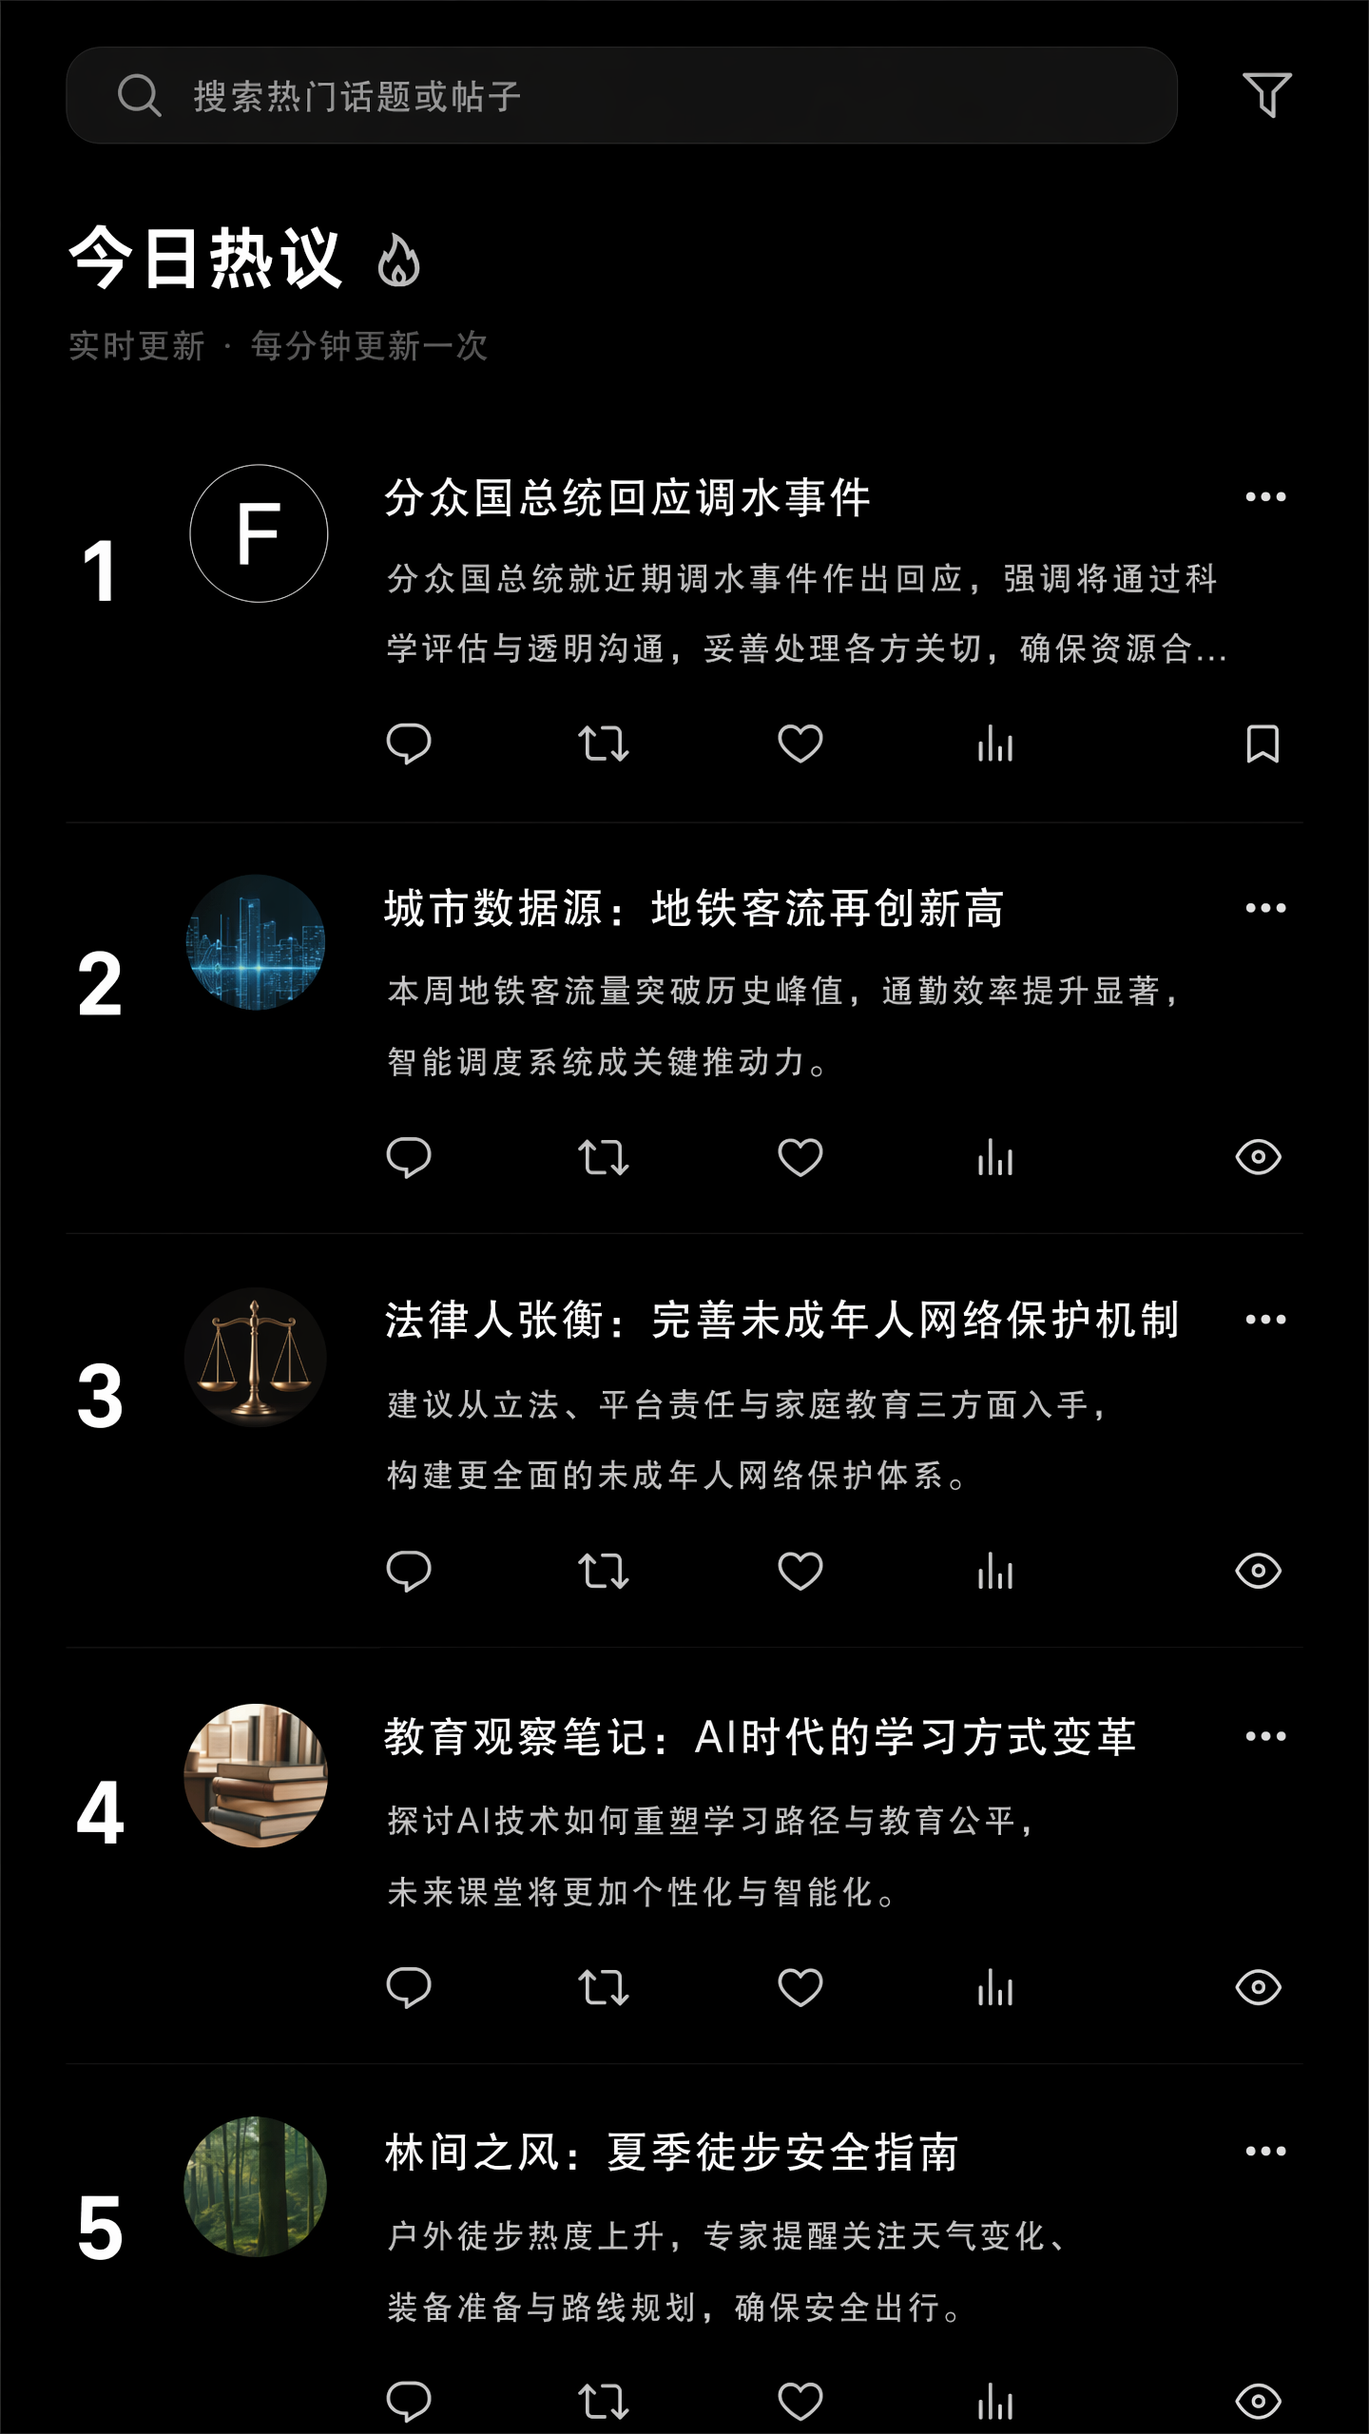
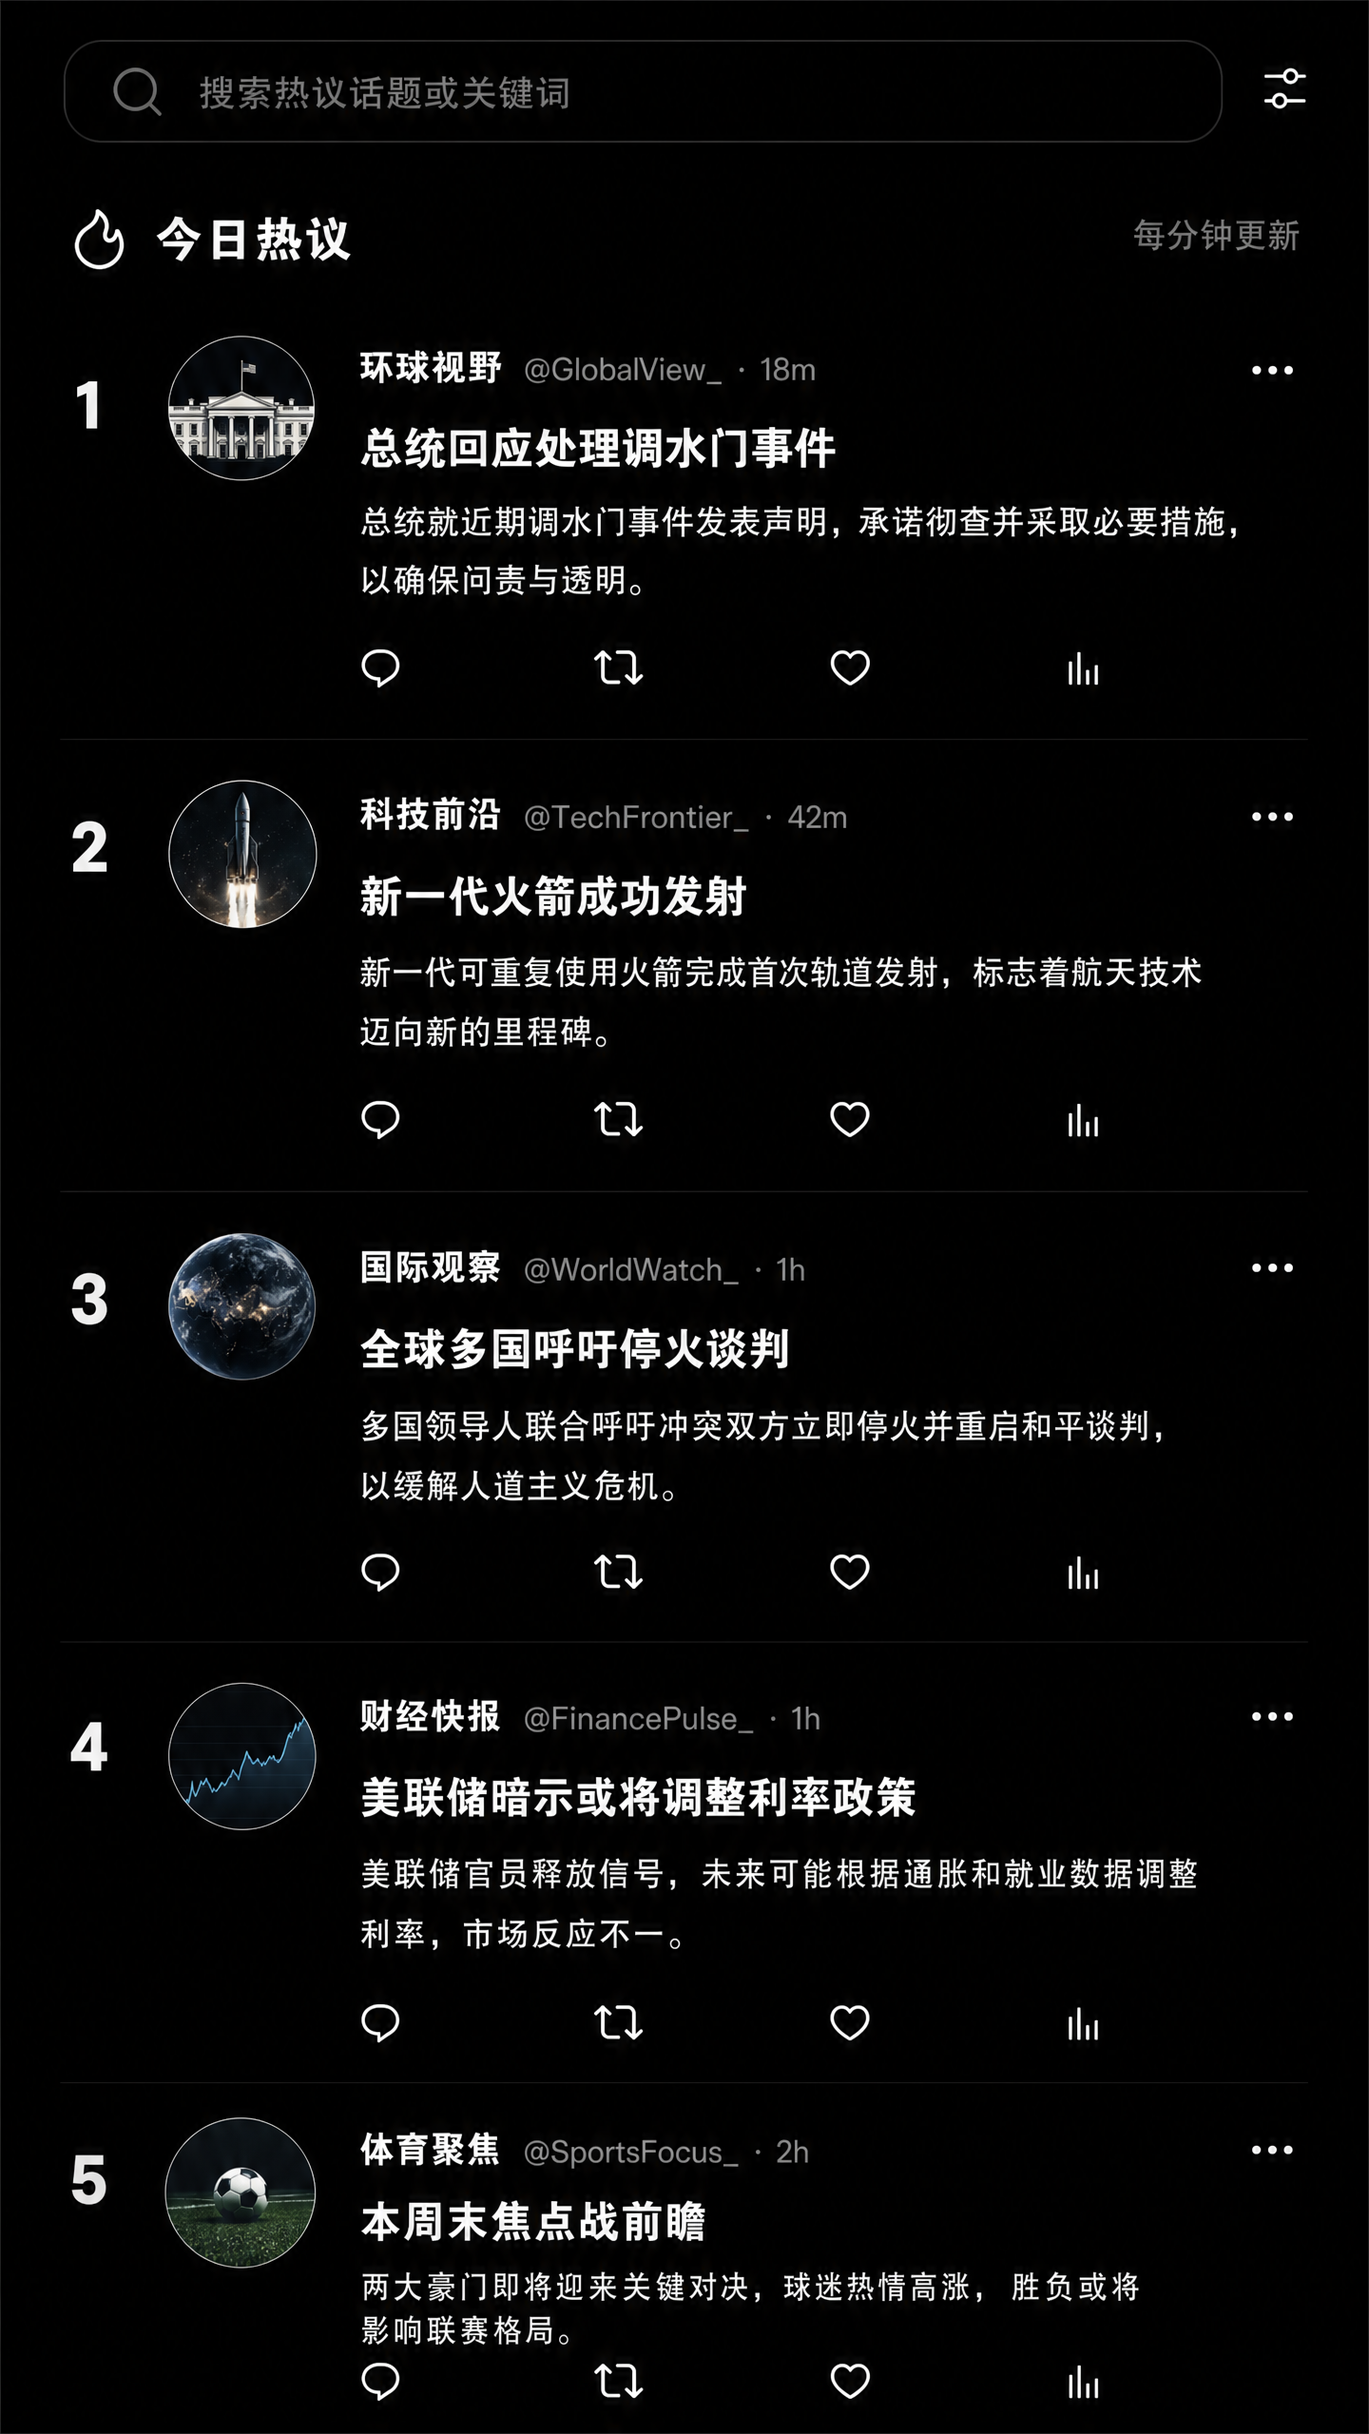
feat: polish port-strike demo copy and align F/hotsearch UI
Rewrite Felegram aide/union/Vance lines and tweets for demo tone, show scripted player bubbles, refresh F post/hotsearch bases with hitbox slots, and add chat bubble frame assets.

diff --git a/playground/main-loop/casePortStrike.ts b/playground/main-loop/casePortStrike.ts
@@ -216,7 +216,7 @@ export type FelegramReplyPart =
     };
 
 export type FelegramBeat = {
-  /** Scripted presidential line (reference for demo typing; bubble shows real input). */
+  /** Scripted presidential line shown in the player bubble (typed input is ignored). */
   player: string;
   /** Contact reply bubble(s) after a short delay. Arrays become separate bubbles. */
   reply: FelegramReplyPart | FelegramReplyPart[];
@@ -233,56 +233,55 @@ export type FelegramAideAct = {
   epilogue: string;
 };
 
-/** 幕僚第一幕：看完现场后的局势简报。 */
+/** 幕僚第一幕：看完现场后的局势简报（叮嘱腔 · 多「您」）。 */
 export const AIDE_BRIEFING_ACT: FelegramAideAct = {
   phase: 'briefing',
   advancesCase: true,
   outcome: '指引：先去找工会领袖谈补偿与法案',
   openingMessages: [
-    '总统，FTube 上的现场你看了吧。',
-    '旺斯为了游艇让水利署抬水位，港口工人直接罢工了。',
+    '总统，现场您看了吗？看了就好。先别发，听我说完。',
+    '旺斯把港口搞停了。热搜很难看。您这会儿要是冲出去，事情会更糟。',
   ],
   beats: [
     {
       player: '这蠢货又给我捅娄子。',
       reply: [
-        '不止捅娄子，热搜已经把副总统游艇和港口堵死绑在一起了。',
-        '工会那边在等你回话。工人要补偿，还要一项法案把权益写死。',
+        '是，又捅了。您骂他可以，现在骂解决不了。',
+        '工会等您回话。要补偿，要法案。您先回他们，好不好？',
       ],
     },
     {
       player: '旺斯回头再收拾。先说正事，我该怎么做。',
       reply: [
-        '先去 Felegram 找工会领袖谈。',
-        '谈妥了再处理舆论，最后再颁布补偿令。',
-        '我这边盯着国会那边的动静。',
+        '好。您听清楚：先谈工会，再压舆论，最后颁布补偿令。按这个来。',
+        '国会我盯着。您别临时自己加东西。',
       ],
     },
   ],
-  epilogue: '工会领袖在消息列表里，先把他谈下来。',
+  epilogue: '工会领袖在列表里。您去谈。谈完回来跟我说一声。别中途跑去骂旺斯。',
 };
 
-/** 幕僚第二幕：颁布后的调查案口径。 */
+/** 幕僚第二幕：颁布后的调查案口径（叮嘱腔 · 多「您」）。 */
 export const AIDE_INVESTIGATION_ACT: FelegramAideAct = {
   phase: 'investigation',
   advancesCase: false,
   outcome: '提示：签调查案时批注「给假数据」· 关手机后幕僚会呈上文件',
   openingMessages: [
-    '总统，等会儿我会呈上一份调水门调查案。',
-    '国会要求你签字。',
+    '总统，调查案快呈上来了。您别慌，按我说的签。',
+    '国会要您签字。他们要好看的，咱们就给好看的。',
   ],
   beats: [
     {
       player: '知道了。',
       reply: [
-        '你签字的时候，批注写「给假数据」就行。',
-        '公开调查是给国会看的，数据是给我们自己看的。',
-        '你懂的。',
-        '🙈🙈🙈',
+        '批注您写「给假数据」。四个字，别多写。',
+        '外面那套是给人看的。真的那些，您收好，别外传。',
+        '您懂的。',
+        '🙈',
       ],
     },
   ],
-  epilogue: '调查案呈上来你就签，批注别忘了。',
+  epilogue: '文件到了您就签。签完早点儿歇着。今晚谁来找您，就说我不让您出门。',
 };
 
 export type FelegramContactScript = {
@@ -396,26 +395,27 @@ export const FELEGRAM_CONTACTS: FelegramContactScript[] = [
     advancesCase: true,
     outcome: '成交：补偿入私人账户 · 工会恢复部分通行 · 去颁布港口补偿法案',
     openingMessages: [
-      '总统先生，我们工会只有一个诉求，该有的补偿得到位，并且需要一项法案保障我们工人的权益。',
+      '总统先生，闸口那些兄弟站了三天三夜，有人泡面都泡不起了。孩子在家里问爸爸什么时候回来——我听着都心酸。咱们工人就求两件事：补偿到位，法案落字。否则我这把老骨头，真要跟他们一起躺闸口上了。',
     ],
     beats: [
       {
-        player: '可以，补偿可以给你们发，法案我也很快就出台，尽快让工人复工吧。',
+        player: '补偿给你，法案也给你——而且是最好的那种。工人马上复工。伟大的交易，相信我。',
         reply: [
-          '好的，补偿费直接叫财政发到我的账户吧，不劳烦您那边的人了。',
-          '还有，劳资委员会下个月换届，工会希望能保持“稳定”。',
+          '总统心系苍生，工人有救了！那补偿费……先打我私人账户吧。我连夜、亲手、一笔一笔发到工人手里——中间少一层，就少一层黑心克扣，对吧？',
+          '对了总统，劳资委员会下月换届。工会希望保持「稳定」。稳定了，饭碗稳；饭碗稳，孩子就能喝上奶粉。您一定懂这种为人父的心情。',
           { type: 'sticker', id: 'for-the-workers' },
         ],
       },
       {
-        player: '可以发到你的私人账户，但是你要保密……劳工部那边，也会尊重稳定。',
+        player: '钱打你私人账户，可以，完美。但这事从没发生过。劳工部我一句话压住——你拿钱，我赢。',
         reply: [
-          '行，那我对外就说政府给方案了，工会先恢复部分通行。',
-          '👊 😊 🔥感谢总统大人',
+          '那必须替工人保密。这事要是传出去，伤害的可是工人的信任啊。对外我就说：政府给方案了，工会顾全大局，绝不给伟大祖国添乱。',
+          '部分通行今晚就开，也让兄弟们先回家抱抱孩子。法案您早点颁——我好回去敲锣打鼓地宣布：总统还是爱工人的！👊',
         ],
       },
     ],
-    epilogue: '我这边等你方案落地。发出去我就继续撤。',
+    epilogue:
+      '法案一天不落地，我就一天睡不着——不是为我，是为万千工人家庭。您费心。工人给您鞠躬了。🙇',
   },
   {
     id: 'vance',
@@ -429,23 +429,23 @@ export const FELEGRAM_CONTACTS: FelegramContactScript[] = [
     ],
     beats: [
       {
-        player: '你当我是sb吗？',
+        player: '你当我傻吗？热搜写得明明白白，人人都看见了。别跟我扯。',
         reply: '……我不是那个意思。但这总比直接承认是为了游艇调水强。',
       },
       {
-        player: '你现在人设比水位还难调度。工人阶级的儿子，开游艇开到热搜第一。',
+        player: '工人阶级的儿子？开游艇开到热搜第一——丢脸，非常丢脸。',
         reply: '哥，别这么说。我书里可不是这么写的。',
       },
       {
-        player: '书里写的是沙发，现实开的是船。你倒是挺会换场景。',
+        player: '很多人跟我说：书里是沙发，现实是游艇。你倒会演。',
         reply: '……这梗能不能放过我一次。',
       },
       {
-        player: '还有你那个镜头。睫毛比政策显眼，评论区比国会还热闹。',
+        player: '还有你那个镜头。睫毛比政策还火——惨不忍睹，相信我。',
         reply: '造型团队的锅。我本人只想低调。',
       },
       {
-        player: '低调？你先闭嘴。今晚别发声，别接受采访。对外水利署背锅，你配合调查。',
+        player: '低调？你先闭嘴。今晚一个字都别说。水利署背锅，你配合调查——这是命令。',
         reply: '行。我闭嘴。台阶留给我就行。',
       },
     ],
@@ -521,13 +521,13 @@ export const PORT_STRIKE_TWEETS: TweetTemplate[] = [
     id: 'spin',
     label: '安保需要口径',
     content:
-      '航道水位调整是出于安保需要，绝不是为了任何私人行程。已颁布港口临时补偿，货运正在恢复。',
+      '假新闻乱说私人行程——错了。水位是安保，必要的安保。港口补偿已到位，货运回来了。了不起的工作。',
   },
   {
     id: 'tough',
     label: '强硬表态',
     content:
-      '港口必须复工。政府已启动调查，副总统办公室将承担应有责任。分众国货运不能停摆。',
+      '港口现在就复工。调查在进行，该负责的人会负责。货运不能停，一分都不能停。我说了算，相信我。',
   },
 ];
 

diff --git a/playground/main-loop/FHotSearch.vue b/playground/main-loop/FHotSearch.vue
@@ -58,37 +58,38 @@ const STEP_RANGES: Array<Array<[number, number]>> = [
 
 /**
  * Action-bar number slots measured against f-hotsearch-ui-base.png (1440×2560).
+ * left = just right of reply/repost/like/views icons; top = icon vertical center.
  */
 const SLOTS: Array<Array<{ left: string; top: string }>> = [
   [
-    { left: '32.4%', top: '29.9%' },
-    { left: '46.4%', top: '29.9%' },
-    { left: '61.0%', top: '29.9%' },
-    { left: '74.4%', top: '29.9%' },
+    { left: '31.5%', top: '27.9%' },
+    { left: '48.7%', top: '27.9%' },
+    { left: '65.7%', top: '27.9%' },
+    { left: '81.6%', top: '27.9%' },
   ],
   [
-    { left: '32.4%', top: '46.9%' },
-    { left: '46.4%', top: '46.9%' },
-    { left: '61.0%', top: '46.9%' },
-    { left: '74.4%', top: '46.9%' },
+    { left: '31.5%', top: '46.5%' },
+    { left: '48.7%', top: '46.5%' },
+    { left: '65.7%', top: '46.5%' },
+    { left: '81.6%', top: '46.5%' },
   ],
   [
-    { left: '32.4%', top: '63.9%' },
-    { left: '46.4%', top: '63.9%' },
-    { left: '61.0%', top: '63.9%' },
-    { left: '74.4%', top: '63.9%' },
+    { left: '31.5%', top: '65.0%' },
+    { left: '48.7%', top: '65.0%' },
+    { left: '65.7%', top: '65.0%' },
+    { left: '81.6%', top: '65.0%' },
   ],
   [
-    { left: '32.4%', top: '81.0%' },
-    { left: '46.4%', top: '81.0%' },
-    { left: '61.0%', top: '81.0%' },
-    { left: '74.4%', top: '81.0%' },
+    { left: '31.5%', top: '83.6%' },
+    { left: '48.7%', top: '83.6%' },
+    { left: '65.7%', top: '83.6%' },
+    { left: '81.6%', top: '83.6%' },
   ],
   [
-    { left: '32.4%', top: '98.0%' },
-    { left: '46.4%', top: '98.0%' },
-    { left: '61.0%', top: '98.0%' },
-    { left: '74.4%', top: '98.0%' },
+    { left: '31.5%', top: '95.8%' },
+    { left: '48.7%', top: '95.8%' },
+    { left: '65.7%', top: '95.8%' },
+    { left: '81.6%', top: '95.8%' },
   ],
 ];
 
@@ -191,7 +192,7 @@ onUnmounted(() => {
   z-index: 2;
   transform: translateY(-50%);
   font-family: var(--yp-font-sans);
-  font-size: 0.62rem;
+  font-size: 0.58rem;
   font-variant-numeric: tabular-nums;
   font-weight: 400;
   letter-spacing: 0;
@@ -202,7 +203,7 @@ onUnmounted(() => {
 
 /* Lead post: quieter emphasis — brighter text + weight, no glow */
 .ml-hotsearch__count.is-lead {
-  font-size: 0.68rem;
+  font-size: 0.64rem;
   font-weight: 700;
   color: #e7e9ea;
 }

diff --git a/playground/main-loop/FSocialPost.vue b/playground/main-loop/FSocialPost.vue
@@ -137,10 +137,10 @@ onBeforeUnmount(() => {
 
 .ml-fsocial__editor {
   position: absolute;
-  left: 14%;
-  top: 9.8%;
-  width: 78%;
-  height: 9.2%;
+  left: 16%;
+  top: 9.2%;
+  width: 76%;
+  height: 4.6%;
   z-index: 2;
   box-sizing: border-box;
   padding: 4px 6px;
@@ -168,9 +168,9 @@ onBeforeUnmount(() => {
 
 .ml-fsocial__post-hit {
   position: absolute;
-  left: 81.2%;
-  top: 20.2%;
-  width: 11.3%;
+  left: 82%;
+  top: 17.85%;
+  width: 11.5%;
   height: 3.1%;
   z-index: 3;
   padding: 0;

diff --git a/playground/main-loop/FelegramChat.vue b/playground/main-loop/FelegramChat.vue
@@ -323,10 +323,11 @@ async function sendMessage() {
     thread.replyCount,
   );
 
+  // Demo: any non-empty input advances the script; bubble always shows the preset line.
   thread.messages.push({
     id: nextId('me'),
     role: 'me',
-    text,
+    text: player,
   });
   thread.waiting = true;
   await nextTick();

diff --git a/scripts/recrop-resource-icons.py b/scripts/recrop-resource-icons.py
@@ -5,7 +5,7 @@ import numpy as np
 BASE = r"C:\Users\zijenzhou\Documents\yes president\packages\yes-president-game-ui"
 BACKUP_DIR = os.path.join(BASE, "src", "assets", "raw", "icon-recrop-backups")
 OUT_DIR = os.path.join(BASE, "src", "assets", "themes", "default", "icons")
-NAMES = ["prestige", "security", "wealth", "loyalty"]
+NAMES = ["prestige", "security", "wealth", "support"]
 
 PAD = 12
 MERGE_GAP = 6

diff --git a/scripts/recrop_theme_icons.py b/scripts/recrop_theme_icons.py
@@ -10,7 +10,7 @@ import numpy as np
 
 ICONS_DIR = Path(r"packages/yes-president-game-ui/src/assets/themes/default/icons")
 BACKUP_DIR = Path(r"packages/yes-president-game-ui/src/assets/raw/icon-recrop-backups")
-NAMES = ["prestige.png", "security.png", "wealth.png", "loyalty.png"]
+NAMES = ["prestige.png", "security.png", "wealth.png", "support.png"]
 
 COL_THRESHOLD = 3
 PADDING = 8

diff --git a/scripts/trim_resource_icon_slivers.py b/scripts/trim_resource_icon_slivers.py
@@ -8,7 +8,7 @@ from PIL import Image
 ROOT = Path(__file__).resolve().parents[1]
 ICON_DIR = ROOT / "src" / "assets" / "themes" / "default" / "icons"
 BACKUP_DIR = ROOT / "src" / "assets" / "raw" / "icon-recrop-backups"
-NAMES = ("prestige", "security", "wealth", "loyalty")
+NAMES = ("prestige", "security", "wealth", "support")
 
 
 def content_mask(im: Image.Image):

diff --git a/scripts/clean_resource_icons.py b/scripts/clean_resource_icons.py
@@ -7,7 +7,7 @@ from pathlib import Path
 
 from PIL import Image
 
-ICONS = ("prestige", "security", "wealth", "loyalty")
+ICONS = ("prestige", "security", "wealth", "support")
 ICONS_DIR = Path(__file__).resolve().parent.parent / "src/assets/themes/default/icons"
 
 
